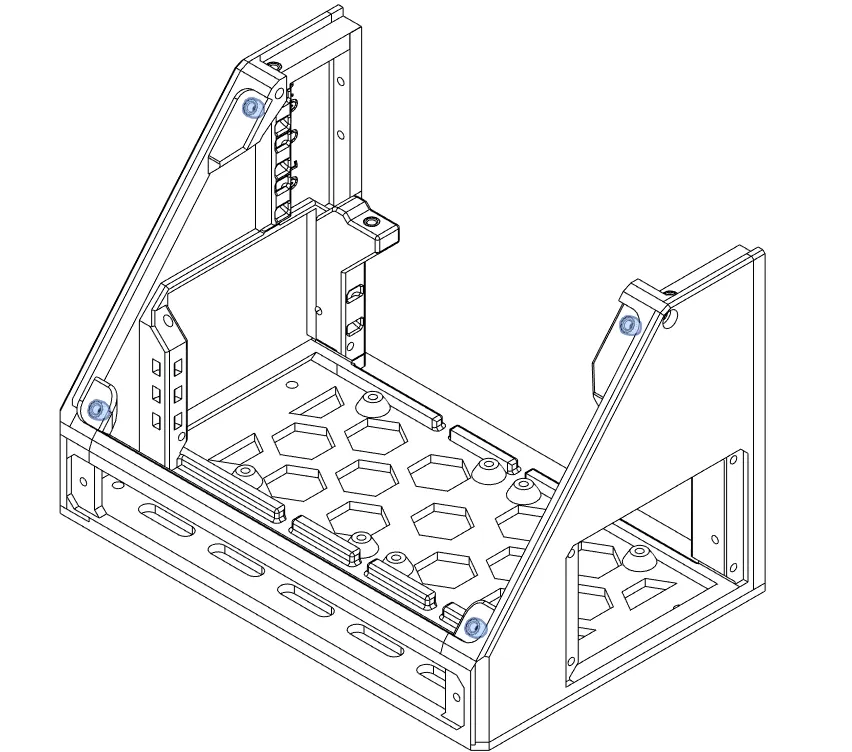
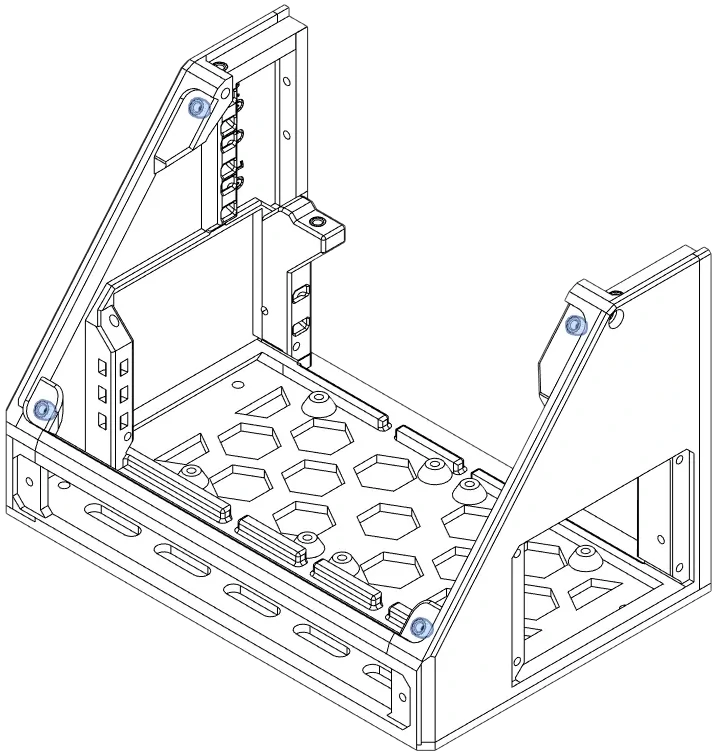
More webp

Changed region(s): [[0.0, 0.0, 1.0, 1.0]]

diff --git a/docs/support/mcu.md b/docs/support/mcu.md
@@ -300,17 +300,17 @@ Compatible with all versions.
 
 [img_mcu]: ../img/components/mcu.webp
 
-[img_btt_octopus]: ../img/parts/btt_octopus_1.jpg
-[img_btt_skr_2]: ../img/parts/btt_skr_2.jpg
-[img_btt_skr_3]: ../img/parts/btt_skr_3.jpg
-[img_btt_skr_3_ez]: ../img/parts/btt_skr_3_ez.jpg
-[img_btt_manta_m8p]: ../img/parts/btt_manta_m8p.jpg
-[img_creality]: ../img/parts/creality_board.jpg
-[img_creality_252]: ../img/parts/creality_2_5_2.jpg
-[img_btt_skr_e3_turbo]: ../img/parts/btt_skr_e3_turbo.jpg
-[img_btt_skr_mini_e3_v3]: ../img/parts/btt_skr_mini_e3_v3.jpg
-[img_duet_3_mini_5+]: ../img/parts/duet3_mini_5plus.jpg
-[img_duet_3_6hc]: ../img/parts/duet3_6hc.jpg
-[img_mks_monster8]: ../img/parts/mks_monster8.jpg
-[img_mks_skipr]: ../img/parts/mks_skipr.jpg
-[img_fysetc_spider]: ../img/parts/fysetc_spider_2_2.jpg
+[img_btt_octopus]: ../img/parts/btt_octopus_1.webp
+[img_btt_skr_2]: ../img/parts/btt_skr_2.webp
+[img_btt_skr_3]: ../img/parts/btt_skr_3.webp
+[img_btt_skr_3_ez]: ../img/parts/btt_skr_3_ez.webp
+[img_btt_manta_m8p]: ../img/parts/btt_manta_m8p.webp
+[img_creality]: ../img/parts/creality_board.webp
+[img_creality_252]: ../img/parts/creality_2_5_2.webp
+[img_btt_skr_e3_turbo]: ../img/parts/btt_skr_e3_turbo.webp
+[img_btt_skr_mini_e3_v3]: ../img/parts/btt_skr_mini_e3_v3.webp
+[img_duet_3_mini_5+]: ../img/parts/duet3_mini_5plus.webp
+[img_duet_3_6hc]: ../img/parts/duet3_6hc.webp
+[img_mks_monster8]: ../img/parts/mks_monster8.webp
+[img_mks_skipr]: ../img/parts/mks_skipr.webp
+[img_fysetc_spider]: ../img/parts/fysetc_spider_2_2.webp

diff --git a/docs/support/lower_bay.md b/docs/support/lower_bay.md
@@ -379,16 +379,16 @@ The LM2596 step down is rated to 3A **with a heatsink**, enough to power a Raspb
 </div>
 
 [img_lower_bay]: ../img/components/lower_bay.webp
-[img_drok_3a]: ../img/parts/buck_3a_drok.jpg
-[img_drok_5a]: ../img/parts/buck_5a_drok.jpg
-[img_basic_lm2596]: ../img/parts/lm2596.jpg
-[img_led_lm2596]: ../img/parts/lm2596_led.jpg
-[img_creality_mosfet]: ../img/parts/mosfet_creality.jpeg
-[img_fotek_ssr_40da]: ../img/parts/fotek_ssr-40_da.jpeg
-[img_hiletgo_2a]: ../img/parts/lm2596_led_2.jpg
-[img_wago_nuts]: ../img/parts/wago_nuts.jpg
-[img_btt_ups_24v]: ../img/parts/btt_ups_24v.jpg
-[img_4010]: ../img/parts/fan_4010.jpg
-[img_btt_relay]: ../img/parts/btt_relay_1.2.jpg
-[img_omron_ssr]: ../img/parts/omron_ssr.jpg
+[img_drok_3a]: ../img/parts/buck_3a_drok.webp
+[img_drok_5a]: ../img/parts/buck_5a_drok.webp
+[img_basic_lm2596]: ../img/parts/lm2596.webp
+[img_led_lm2596]: ../img/parts/lm2596_led.webp
+[img_creality_mosfet]: ../img/parts/mosfet_creality.webp
+[img_fotek_ssr_40da]: ../img/parts/fotek_ssr-40_da.webp
+[img_hiletgo_2a]: ../img/parts/lm2596_led_2.webp
+[img_wago_nuts]: ../img/parts/wago_nuts.webp
+[img_btt_ups_24v]: ../img/parts/btt_ups_24v.webp
+[img_4010]: ../img/parts/fan_4010.webp
+[img_btt_relay]: ../img/parts/btt_relay_1.2.webp
+[img_omron_ssr]: ../img/parts/omron_ssr.webp
 [img_btt_u2c]: ../img/parts/btt_u2c.webp

diff --git a/docs/support/fans.md b/docs/support/fans.md
@@ -212,13 +212,13 @@ Fan cages and fan gaskets are stored in the [:material-git: `/Fans`][git_fans] g
 
 [img_fans]: ../img/components/fans.webp
 
-[img_4010]: ../img/parts/fan_4010.jpg
-[img_4020]: ../img/parts/fan_4020.jpg
-[img_5012]: ../img/parts/fan_5012.jpg
-[img_6015]: ../img/parts/fan_6015.jpg
-[img_6020]: ../img/parts/fan_6020.jpg
-[img_6025]: ../img/parts/fan_6025.jpg
-[img_8020]: ../img/parts/fan_8020.jpg
-[img_8025]: ../img/parts/fan_8025.jpg
-[img_9225]: ../img/parts/fan_9225.jpg
-[img_12025]: ../img/parts/fan_12025.jpg
+[img_4010]: ../img/parts/fan_4010.webp
+[img_4020]: ../img/parts/fan_4020.webp
+[img_5012]: ../img/parts/fan_5012.webp
+[img_6015]: ../img/parts/fan_6015.webp
+[img_6020]: ../img/parts/fan_6020.webp
+[img_6025]: ../img/parts/fan_6025.webp
+[img_8020]: ../img/parts/fan_8020.webp
+[img_8025]: ../img/parts/fan_8025.webp
+[img_9225]: ../img/parts/fan_9225.webp
+[img_12025]: ../img/parts/fan_12025.webp

diff --git a/docs/support/psu.md b/docs/support/psu.md
@@ -28,8 +28,7 @@ PSU trays are found in the [:material-git: `/Trays/PSU`][git_psu] git folder. Ex
 </div>
 <div markdown class="jh-grid-img">
 [![product picture][img_]][img_]
-</div>
-</div>
+</div></div>
  -->
 
 ## Mean Well
@@ -150,9 +149,9 @@ The RS-25-5 is a common second power supply for SBCs and fits on a lower bay tra
 </div>
 
 [psu]: ../img/components/psu.webp
-[img_lrs_350]: ../img/parts/mw_lrs_350_24.jpg
-[img_rsp_500]: ../img/parts/mw_rsp_500_24.jpg
-[img_rs_25_5]: ../img/parts/rs_25_5.png
-[img_lrs_450]: ../img/parts/lrs_450_24.png
-[img_lrs_600]: ../img/parts/lrs_600_24.png
-[img_se_450]: ../img/parts/se_450_24.png
+[img_lrs_350]: ../img/parts/mw_lrs_350_24.webp
+[img_rsp_500]: ../img/parts/mw_rsp_500_24.webp
+[img_rs_25_5]: ../img/parts/rs_25_5.webp
+[img_lrs_450]: ../img/parts/lrs_450_24.webp
+[img_lrs_600]: ../img/parts/lrs_600_24.webp
+[img_se_450]: ../img/parts/se_450_24.webp

diff --git a/docs/support/displays.md b/docs/support/displays.md
@@ -239,10 +239,10 @@ Known compatible displays are listed below, along with mounting options.
 
 
 [img_display]: ../img/components/display.webp
-[img_btt_tft35_e3]: ../img/parts/btt_35tft_e3.jpg
-[img_12864]: ../img/parts/classic_12864.jpg
-[img_mini12864]: ../img/parts/mini12864.jpg
-[img_btt_tft24]: ../img/parts/btt_tft_2.4.jpg
-[img_btt_tft35]: ../img/parts/btt_tft_3.5.jpg
-[img_btt_pitft50]: ../img/parts/btt_pitft_5.0.jpg
-[img_rpi_tft]: ../img/parts/rpi_tft.jpg
+[img_btt_tft35_e3]: ../img/parts/btt_35tft_e3.webp
+[img_12864]: ../img/parts/classic_12864.webp
+[img_mini12864]: ../img/parts/mini12864.webp
+[img_btt_tft24]: ../img/parts/btt_tft_2.4.webp
+[img_btt_tft35]: ../img/parts/btt_tft_3.5.webp
+[img_btt_pitft50]: ../img/parts/btt_pitft_5.0.webp
+[img_rpi_tft]: ../img/parts/rpi_tft.webp

diff --git a/docs/support/cpu.md b/docs/support/cpu.md
@@ -90,6 +90,6 @@ This tray has the Raspberry Pi mounting hole pattern and is compatible with clon
 
 
 [cpu]: ../img/components/cpu.webp
-[img_rpi_3b]: ../img/parts/rpi_3b_plus.jpg
-[img_rpi_4b]: ../img/parts/rpi_4b.jpg
+[img_rpi_3b]: ../img/parts/rpi_3b_plus.webp
+[img_rpi_4b]: ../img/parts/rpi_4b.webp
 [panel_mounts]: panel_mounts.md
